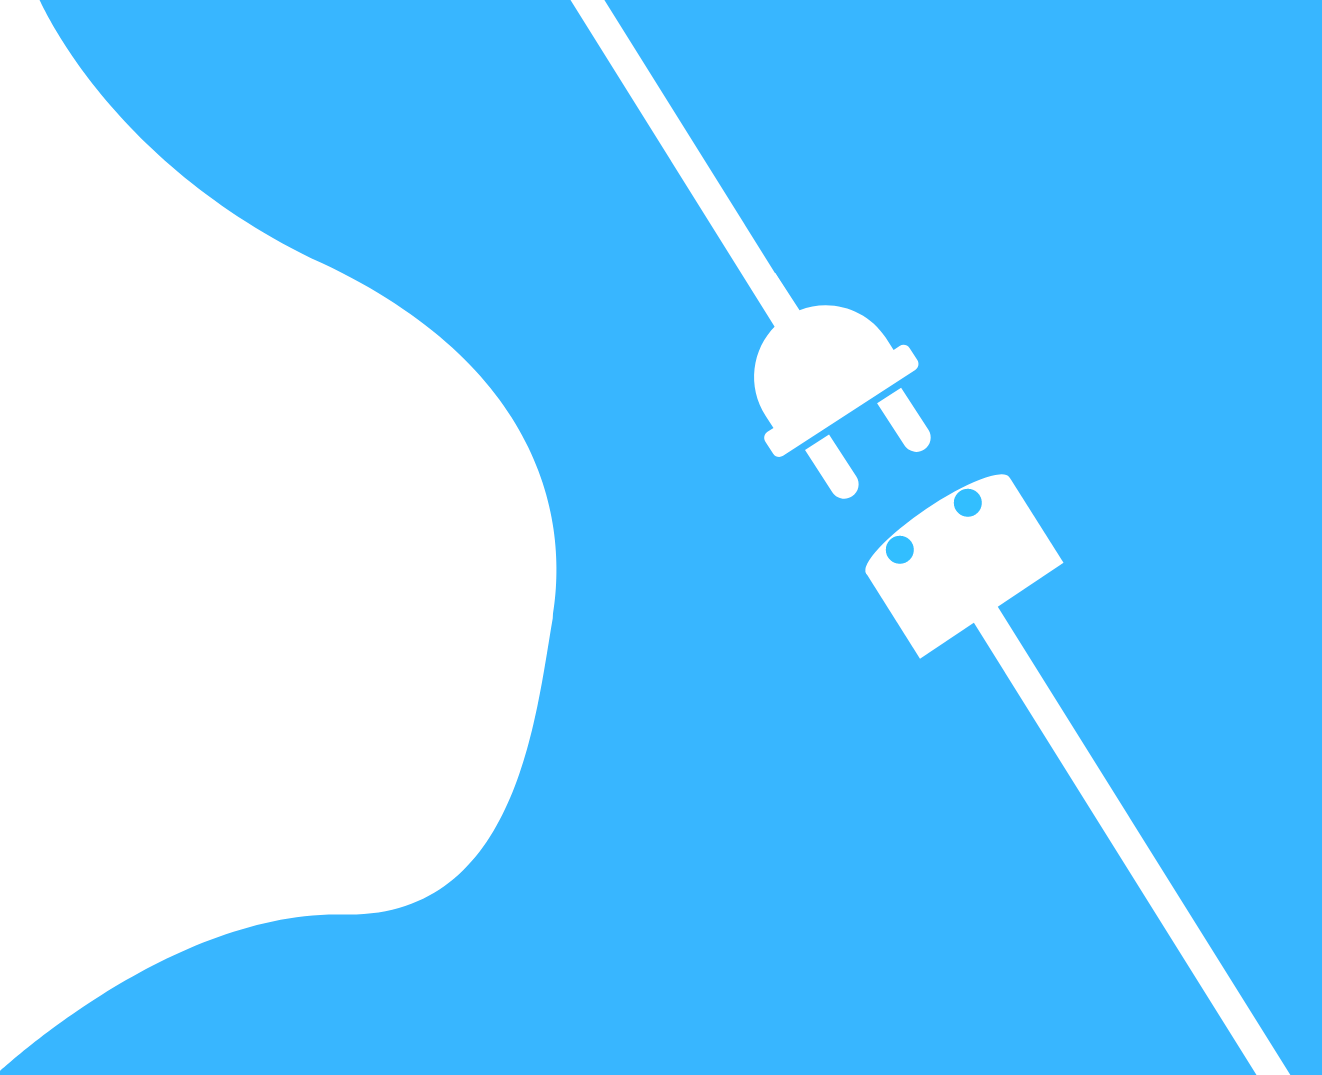
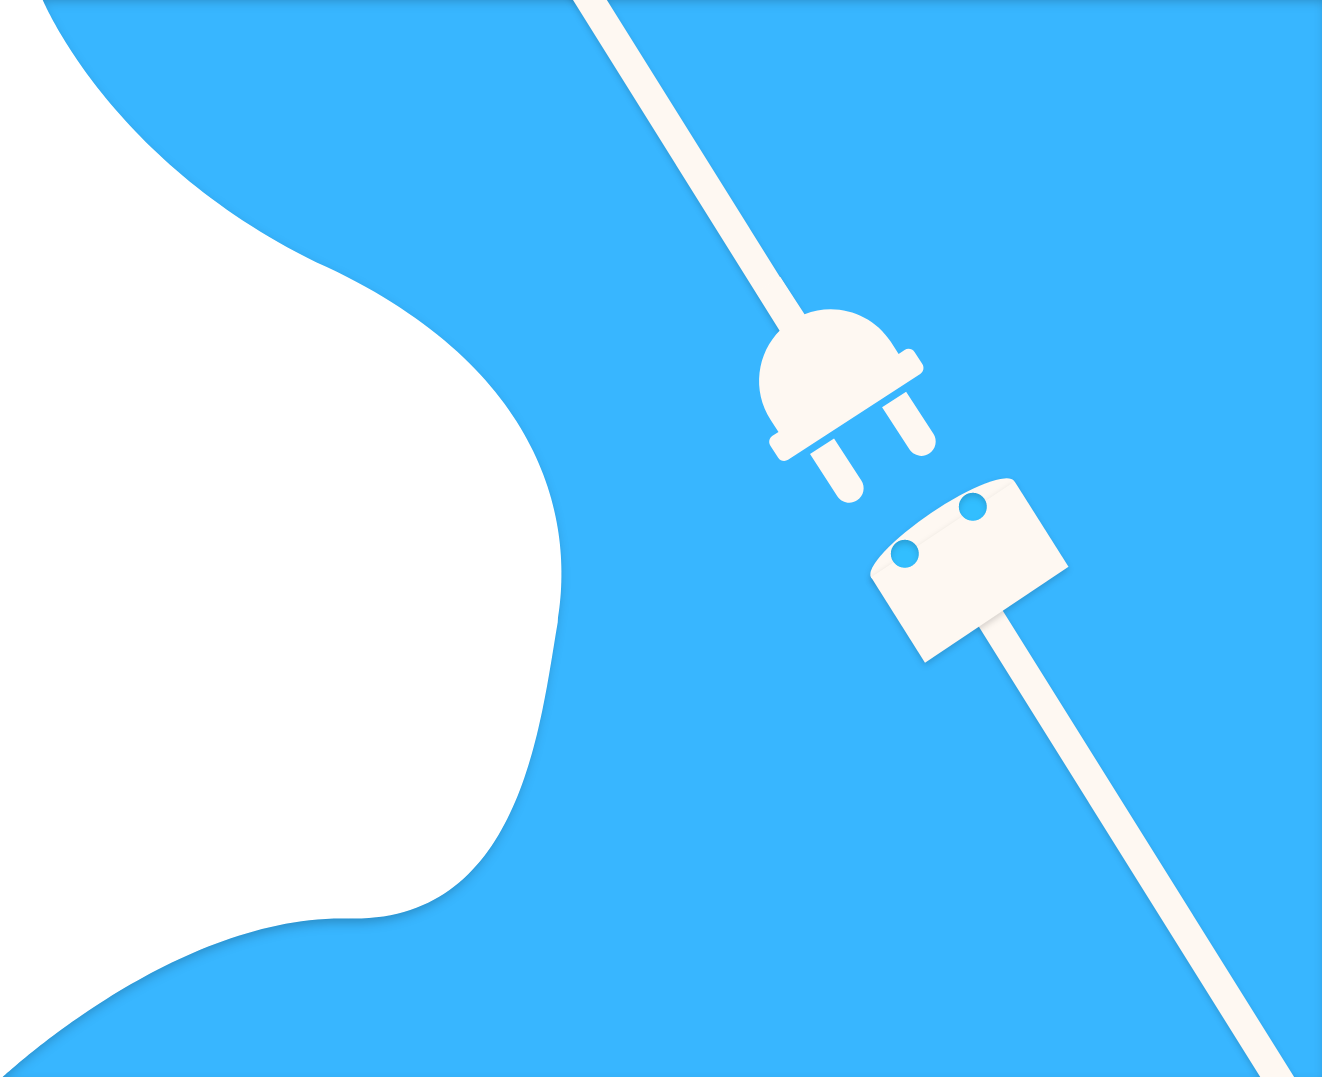
:lipstick: updated 404 page design + change background image

diff --git a/resources/views/404.blade.php b/resources/views/404.blade.php
@@ -2,11 +2,13 @@
 
 @section('content')
 
-    <div class="flex flex-row justify-center xl:justify-start w-screen h-screen xl:bg-contain xl:bg-no-repeat xl:bg-right" style="background-image: url('../img/bg-404.png')">
-        <div class="flex flex-col justify-center place-items-center xl:ml-96">
-            <h1 class="text-6xl xl:text-9xl my-2">404</h1>
-            <h2 class="text-5xl xl:text-8xl my-2">Not found...</h2>
-            <a href="{{route('home')}}" class="btn-blue my-4">Accueil</a>
+    <div class="flex flex-row justify-center xl:justify-start w-screen h-screen bg-white-cream xl:bg-contain xl:bg-no-repeat xl:bg-right" style="background-image: url('../img/bg-404.png')">
+        <div class="flex flex-col justify-center place-items-center rounded-lg xl:ml-96">
+            <div class="flex flex-col justify-center place-items-center highlight shadow-md bg-white px-12 xl:px-24 py-24 xl:py-36">
+                <h1 class="text-6xl xl:text-9xl my-2">404</h1>
+                <h2 class="text-5xl xl:text-8xl my-2">Not found...</h2>
+                <a href="{{route('home')}}" class="btn-blue mt-12 xl:my-4 z-10">Accueil</a>
+            </div>
         </div>
     </div>
 
